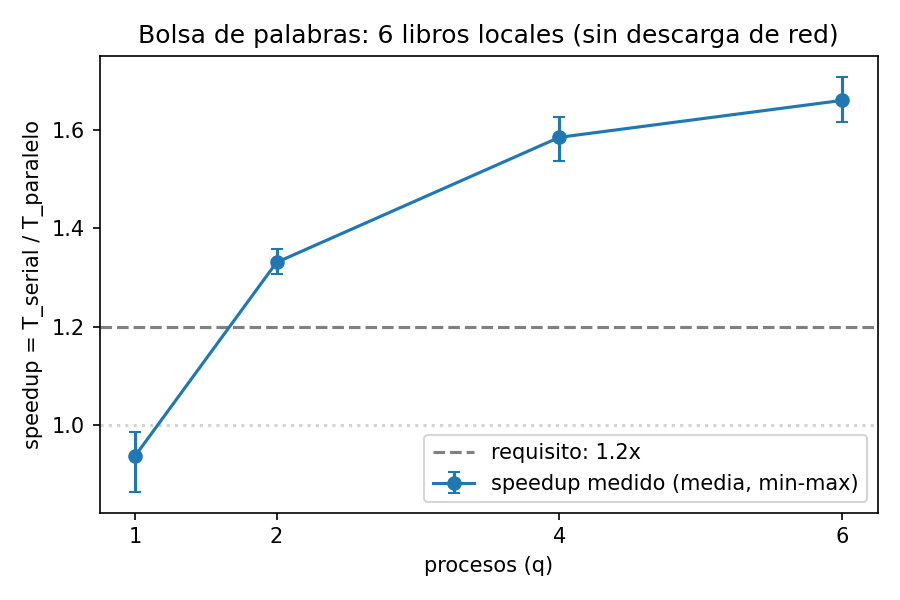
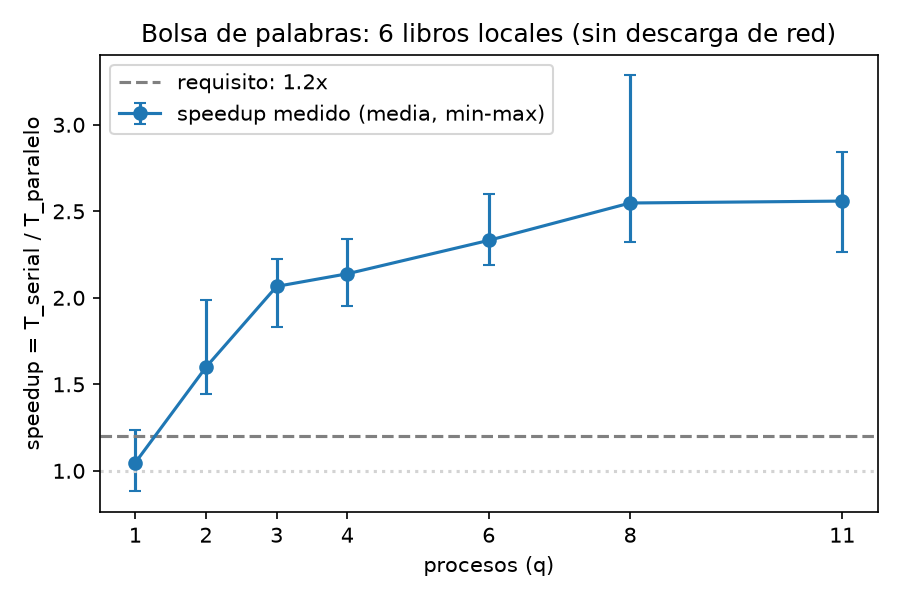
bolsa-palabras: MPI_Abort en errores; experimentos locales 5 reps (q=1..11)
- src/comun/bolsa_comun.h: los errores ya no llaman exit() directo (en MPI un
  exit() de un solo proceso deja a los demas colgados en la siguiente
  barrera). Ahora pasan por un puntero a funcion terminarPorError, que por
  defecto es exit() (lo que usa bolsa_serial.cpp).
- src/mpi/bolsa_mpi.cpp: al iniciar, reasigna terminarPorError para que
  llame a MPI_Abort(MPI_COMM_WORLD, codigo) y termine todos los procesos.
  Probado forzando un error (archivo de URLs inexistente) con q=4: los 4
  procesos terminan limpio, sin colgarse.
- experiments/: corridas locales finales con data/urls_locales.txt, 5
  repeticiones por q en {1,2,3,4,6,8,11} (35 corridas, matrices serial y
  paralela identicas en las 35). q=11 es el maximo real en esta maquina:
  nproc reporta 22 pero son 11 nucleos fisicos con hyperthreading: Open MPI
  cuenta nucleos fisicos y rechaza -np mayor a 11 ("not enough slots").
  Speedup total: q=1 ~1.0x (sin ganancia, como se espera), q=2 ~1.6x,
  satura alrededor de q=6-8 en ~2.5x (6 libros locales, poco texto para
  repartir entre mas procesos). resultados_locales.csv y
  speedup_locales.png regenerados con analizar_corridas.py.

Pendiente de confirmar con Tamara antes de documentar en docs/: una prueba
aparte (no incluida en este commit) con 6 libros LOCALES de tamano parejo
(sin un libro grande dominante, partiendo temas/pg100.txt en 6 pedazos
iguales de ~900 KB) dio speedup ~1.65x en q=2, no los ~1.22-1.30x que se
[…]

diff --git a/proyectos/bolsa-palabras/src/comun/bolsa_comun.h b/proyectos/bolsa-palabras/src/comun/bolsa_comun.h
@@ -23,12 +23,21 @@
 
 using namespace std;
 
+// Como este archivo lo comparten la version serial (un solo proceso) y la version MPI (q
+// procesos), un error no puede llamar directamente a exit(): en MPI, si un solo proceso termina
+// y los demas se quedan esperando en una barrera, el programa se cuelga en vez de terminar.
+// Por eso los errores pasan por este puntero a funcion: por defecto es exit() (lo que necesita
+// bolsa_serial.cpp); bolsa_mpi.cpp lo reasigna al principio de main() para que llame a
+// MPI_Abort y asi termine TODOS los procesos.
+inline void (*terminarPorError)(int) = [](int codigo) { exit(codigo); };
+
 // Lee el listado de URLs: una por linea. Se ignoran las lineas vacias y las que empiezan con '#'.
 inline vector<string> leerUrls(const string& ruta) {
     ifstream archivo(ruta);
     if (!archivo.is_open()) {
         cerr << "No se pudo abrir el listado de URLs: " << ruta << "\n";
-        exit(1);
+        terminarPorError(1);
+        return {};  // por si terminarPorError no termina el programa (no deberia pasar)
     }
     vector<string> urls;
     string linea;
@@ -49,7 +58,8 @@ inline string leerArchivo(const string& ruta) {
     ifstream archivo(ruta, ios::binary);
     if (!archivo.is_open()) {
         cerr << "No se pudo abrir el archivo: " << ruta << "\n";
-        exit(1);
+        terminarPorError(1);
+        return "";  // por si terminarPorError no termina el programa (no deberia pasar)
     }
     stringstream ss;
     ss << archivo.rdbuf();
@@ -67,7 +77,8 @@ inline string obtenerTexto(const string& fuente, int indice) {
         if (!(isalnum(u) || c == ':' || c == '/' || c == '.' || c == '-' || c == '_' || c == '~' ||
               c == '%' || c == '?' || c == '=' || c == '&')) {
             cerr << "URL con caracteres no permitidos: " << fuente << "\n";
-            exit(1);
+            terminarPorError(1);
+            return "";  // por si terminarPorError no termina el programa (no deberia pasar)
         }
     }
     string temporal = "libro_" + to_string(indice) + ".txt";
@@ -79,7 +90,8 @@ inline string obtenerTexto(const string& fuente, int indice) {
         cerr << "Fallo la descarga de " << fuente << "\n"
              << "Si fue un 503, Gutenberg bloqueo temporalmente esta IP: espera (ver Retry-After) "
              << "y mientras tanto prueba con rutas locales (data/urls_locales.txt).\n";
-        exit(1);
+        terminarPorError(1);
+        return "";  // por si terminarPorError no termina el programa (no deberia pasar)
     }
     string texto = leerArchivo(temporal);
     remove(temporal.c_str());
@@ -127,7 +139,8 @@ inline void escribirCsv(const string& ruta, const vector<string>& vocabulario,
     ofstream salida(ruta);
     if (!salida.is_open()) {
         cerr << "No se pudo crear el archivo de salida: " << ruta << "\n";
-        exit(1);
+        terminarPorError(1);
+        return;  // por si terminarPorError no termina el programa (no deberia pasar)
     }
     for (size_t j = 0; j < vocabulario.size(); j++) {
         if (j > 0) salida << ",";

diff --git a/proyectos/bolsa-palabras/src/mpi/bolsa_mpi.cpp b/proyectos/bolsa-palabras/src/mpi/bolsa_mpi.cpp
@@ -80,6 +80,14 @@ int main(int argc, char** argv) {
     MPI_Comm_rank(MPI_COMM_WORLD, &rank);
     MPI_Comm_size(MPI_COMM_WORLD, &q);
 
+    // Un error (archivo que no abre, descarga que falla, etc.) debe terminar los q procesos, no
+    // solo el que lo detecta: si uno solo saliera con exit(), los demas se quedarian esperando
+    // para siempre en la siguiente barrera. MPI_Abort manda terminar a todo MPI_COMM_WORLD.
+    terminarPorError = [](int codigo) {
+        MPI_Abort(MPI_COMM_WORLD, codigo);
+        exit(codigo);  // por si MPI_Abort regresa en esta implementacion de MPI
+    };
+
     if (argc != 3) {
         if (rank == 0) cout << "Uso: mpirun -np <q> " << argv[0] << " <urls.txt> <salida.csv>\n";
         MPI_Finalize();
